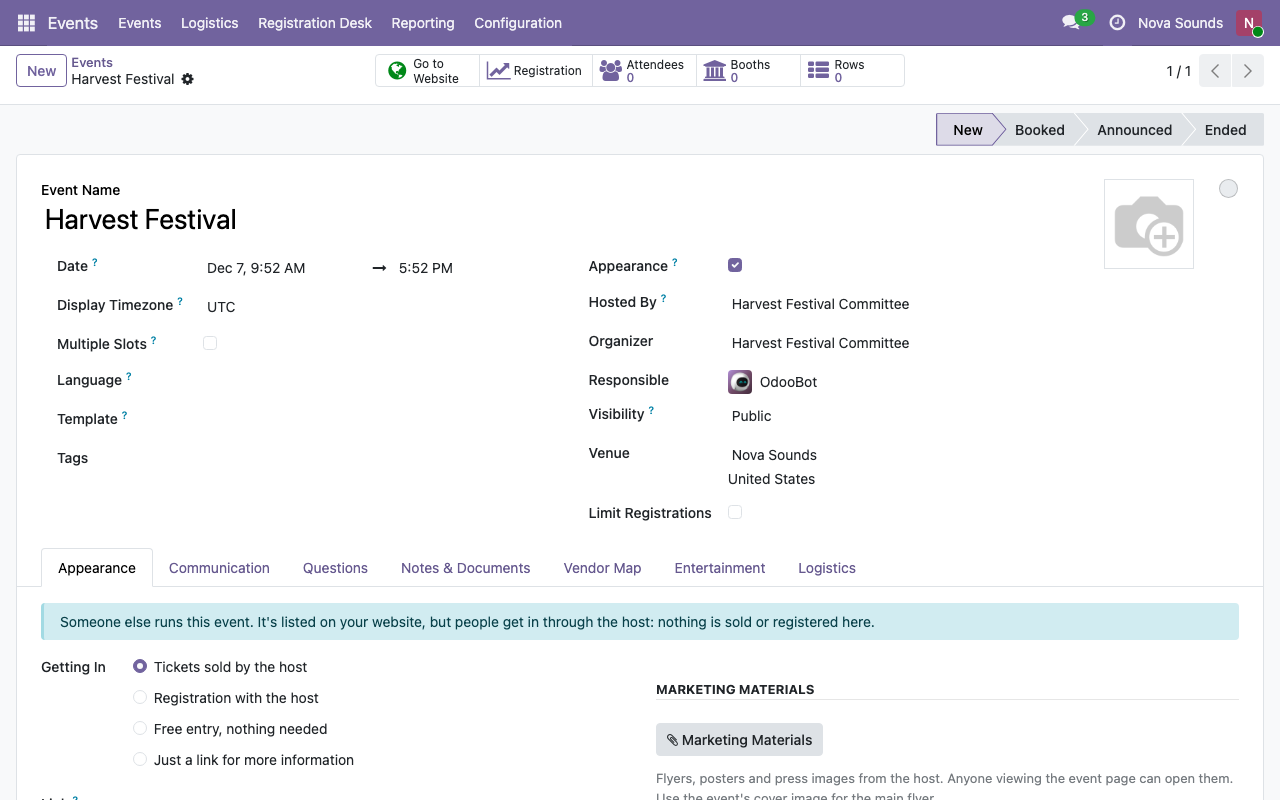
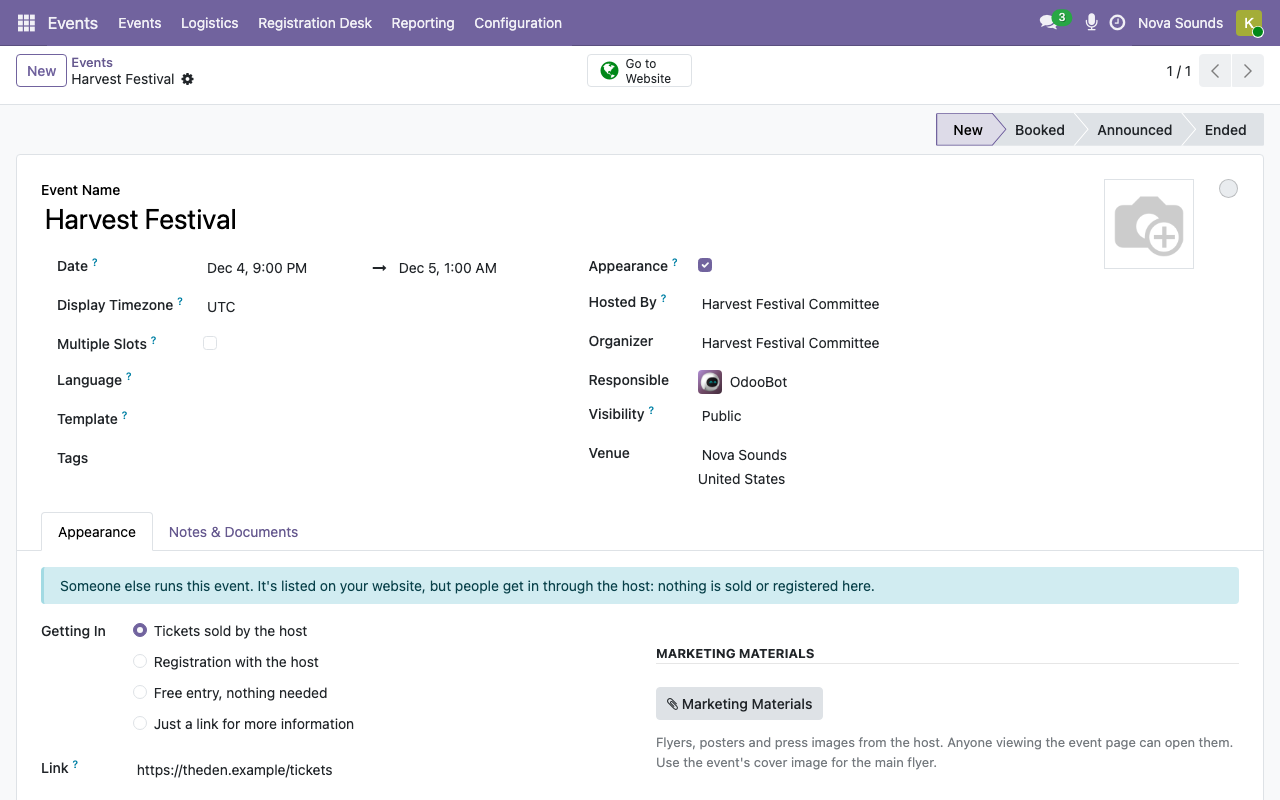
Appearances: show only the tabs and buttons an appearance needs
On an event someone else runs, the form now shows only the Appearance and
Notes & Documents tabs and the Go to Website button. Tabs for running an
event (Tickets, Communication, Questions, Entertainment, Logistics,
Volunteers, Vendor Map, and any a later module adds), the attendee and
sales buttons, the registration limit and the badge and ticket-instruction
fields are hidden.

Performers courses: the Appearances lesson explains this, with a new
screenshot. The course data was noupdate, so lesson changes never reached
an installed database; both course modules now follow the code, with a
migration lifting the flag.

diff --git a/website_event_appearance/models/event_event.py b/website_event_appearance/models/event_event.py
@@ -2,6 +2,15 @@
 from odoo import _, api, fields, models
 from odoo.exceptions import ValidationError
 
+# On an appearance's form, only these tabs stay: the appearance details and
+# your own notes. Every other tab (Communication, Questions, Entertainment,
+# Logistics, Volunteers, Vendor Map, ...) is about running an event, which the
+# host does; tabs added by modules installed later are hidden too.
+APPEARANCE_FORM_PAGES = {'appearance', 'event_notes'}
+# Fields about registrations and badges, which don't apply either.
+APPEARANCE_HIDDEN_FIELDS = ('seats_limited', 'seats_max', 'badge_format', 'badge_image',
+                            'ticket_instructions')
+
 ENTRY_LABELS = {
     'tickets': "Get tickets",
     'registration': "Register",
@@ -60,6 +69,42 @@ class EventEvent(models.Model):
             if url and not url.startswith(('https://', 'http://')):
                 raise ValidationError(_("The link for %(event)s should start with https://",
                                         event=event.name))
+
+    @api.model
+    def _get_view(self, view_id=None, view_type='form', **options):
+        arch, view = super()._get_view(view_id, view_type, **options)
+        if view_type == 'form' and arch.xpath("//field[@name='is_appearance']"):
+            self._appearance_hide_unused(arch)
+        return arch, view
+
+    @api.model
+    def _appearance_hide_unused(self, arch):
+        """Hide what only matters when we run the event ourselves, whatever
+        module added it: the tabs, the smart buttons (attendees, sales, ...)
+        and the registration and badge fields."""
+        def hide(node):
+            current = (node.get('invisible') or '').strip()
+            if current in ('1', 'True', 'true'):
+                return
+            node.set('invisible', f"({current}) or is_appearance"
+                     if current and current not in ('0', 'False', 'false') else 'is_appearance')
+
+        for page in arch.xpath("//sheet/notebook/page"):
+            if page.get('name') not in APPEARANCE_FORM_PAGES:
+                hide(page)
+        for button in arch.xpath("//div[@name='button_box']/*"):
+            # Keep "Go to Website": the public page is the point of an appearance.
+            if button.get('widget') != 'website_redirect_button':
+                hide(button)
+        for name in APPEARANCE_HIDDEN_FIELDS:
+            for node in arch.xpath(f"//field[@name='{name}'] | //label[@for='{name}']"):
+                parent = node.getparent()
+                # The "Limit Registrations" line and the ticket-instructions block
+                # are a label plus a wrapper: hide the wrapper too.
+                if node.tag == 'field' and parent.tag in ('div', 'group') and parent.get('name') != 'button_box' \
+                        and name in ('seats_limited', 'ticket_instructions'):
+                    hide(parent)
+                hide(node)
 
     @api.depends('is_appearance')
     def _compute_event_registrations_open(self):

diff --git a/website_event_appearance/tests/test_appearance.py b/website_event_appearance/tests/test_appearance.py
@@ -68,3 +68,21 @@ class TestAppearance(HttpCase):
         self.appearance.write({'appearance_entry': 'free', 'appearance_url': False})
         self.assertFalse(self.appearance.appearance_button_label)
         self.assertIn('Free entry', self.url_open(f'/event/{self.appearance.id}/register').text)
+
+    def test_form_shows_only_what_an_appearance_needs(self):
+        """Tabs, buttons and fields for running an event are hidden on an
+        appearance's form, including tabs from other modules."""
+        from lxml import etree
+        arch = etree.fromstring(self.env['event.event'].get_views([(False, 'form')])['views']['form']['arch'])
+        pages = {page.get('name'): page.get('invisible') or '' for page in arch.xpath('//sheet/notebook/page')}
+        self.assertEqual(pages['appearance'], 'not is_appearance')
+        self.assertNotIn('is_appearance', pages['event_notes'])
+        for name, invisible in pages.items():
+            if name not in ('appearance', 'event_notes'):
+                self.assertIn('is_appearance', invisible, f"tab {name} should be hidden on an appearance")
+        self.assertTrue(arch.xpath("//div[@name='button_box']/field[@widget='website_redirect_button']"))
+        for button in arch.xpath("//div[@name='button_box']/*[not(@widget='website_redirect_button')]"):
+            self.assertTrue(button.get('invisible') == '1' or 'is_appearance' in (button.get('invisible') or ''))
+        for name in ('seats_limited', 'ticket_instructions', 'badge_format'):
+            self.assertIn('is_appearance', arch.xpath(f"//field[@name='{name}']")[0].get('invisible'))
+        self.assertNotIn('is_appearance', arch.xpath("//field[@name='note']")[0].get('invisible') or '')

diff --git a/performers_elearning/tools/build_course_data.py b/performers_elearning/tools/build_course_data.py
@@ -208,6 +208,10 @@ PROMOTION = ('channel_promotion', "Getting Booked Again",
             p("On the " + path("Appearance") + " tab: the host, how people get in (tickets sold by the host, "
               "registration with the host, free entry, or just more information), the host's link and the "
               "button's label, and the host's flyer and materials to show on the page."),
+            p("Ticking <strong>Appearance</strong> hides everything that's only for running an event yourself: "
+              "the Tickets, Communication and Questions tabs, entertainment, logistics and the attendee "
+              "buttons. " + path("Notes & Documents") + " stays for your own notes, and "
+              "<strong>Go to Website</strong> shows the public page."),
             shot(M, 'appearance_form.png', "An event set up as an appearance", "an appearance at a festival."),
             callout('fa-bullhorn', "Promote It", "On a booked public gig, <strong>Promote It</strong> creates a "
                     "draft appearance from the gig: add the host's link and flyer, then publish it."),
@@ -355,7 +359,7 @@ def write(module, courses):
     target = os.path.join(ROOT, module, 'data', 'slide_channel_data.xml')
     with open(target, 'w') as f:
         f.write('<?xml version="1.0" encoding="utf-8" ?>\n<!-- Built by performers_elearning/tools/'
-                'build_course_data.py: edit there and rebuild. -->\n<odoo noupdate="1">\n\n' + body + '</odoo>\n')
+                'build_course_data.py: edit there and rebuild. -->\n<odoo noupdate="0">\n\n' + body + '</odoo>\n')
     print(target)
 
 

diff --git a/performers_elearning_events/migrations/19.0.1.1.0/pre-migrate.py b/performers_elearning_events/migrations/19.0.1.1.0/pre-migrate.py
@@ -1,0 +1,11 @@
+# -*- coding: utf-8 -*-
+
+
+def migrate(cr, version):
+    """The courses were first installed as noupdate data, which keeps every
+    later lesson change from reaching an installed database. They follow
+    the code now: lift the flag so this and future upgrades rewrite them."""
+    cr.execute("""
+        UPDATE ir_model_data SET noupdate = false
+         WHERE module = 'performers_elearning_events' AND noupdate
+    """)

diff --git a/performers_elearning/migrations/19.0.1.1.0/pre-migrate.py b/performers_elearning/migrations/19.0.1.1.0/pre-migrate.py
@@ -1,0 +1,11 @@
+# -*- coding: utf-8 -*-
+
+
+def migrate(cr, version):
+    """The courses were first installed as noupdate data, which keeps every
+    later lesson change from reaching an installed database. They follow
+    the code now: lift the flag so this and future upgrades rewrite them."""
+    cr.execute("""
+        UPDATE ir_model_data SET noupdate = false
+         WHERE module = 'performers_elearning' AND noupdate
+    """)

diff --git a/performers_elearning/__manifest__.py b/performers_elearning/__manifest__.py
@@ -1,7 +1,7 @@
 # -*- coding: utf-8 -*-
 {
     'name': 'eLearning: Performers Training',
-    'version': '19.0.1.0.1',
+    'version': '19.0.1.1.0',
     'category': 'Website/eLearning',
     'summary': "eLearning courses for the Performers Suite: bookings, gear and music, getting booked again",
     'description': """

diff --git a/performers_elearning_events/__manifest__.py b/performers_elearning_events/__manifest__.py
@@ -1,7 +1,7 @@
 # -*- coding: utf-8 -*-
 {
     'name': 'eLearning: Performer Events Training',
-    'version': '19.0.1.0.0',
+    'version': '19.0.1.1.0',
     'category': 'Website/eLearning',
     'summary': "eLearning course for Performer Events: paying performers and staff, and the door",
     'description': """

diff --git a/website_event_appearance/__manifest__.py b/website_event_appearance/__manifest__.py
@@ -1,7 +1,7 @@
 # -*- coding: utf-8 -*-
 {
     'name': 'Event Appearances',
-    'version': '19.0.1.0.1',
+    'version': '19.0.1.1.0',
     'category': 'Marketing/Events',
     'summary': "List events you're performing at, run by someone else: link to their tickets, show their flyer",
     'description': """

diff --git a/website_event_appearance/README.md b/website_event_appearance/README.md
@@ -23,8 +23,12 @@ alongside your own events, but nothing is sold or registered in Odoo.
 For an appearance, `event_registrations_open` is always false, so Odoo's
 own Register button, tickets and "Registrations Closed" notices don't
 show, and the registration routes (`/registration/new`,
-`/registration/confirm`) answer 404 even if posted directly. The Tickets
-tab is hidden on the form. Everything else about the event (dates, venue,
+`/registration/confirm`) answer 404 even if posted directly. On the form,
+only the Appearance and Notes & Documents tabs show: Tickets,
+Communication, Questions and any tab another module adds for running an
+event (entertainment, logistics, volunteers, ...) are hidden, as are the
+attendee and sales buttons (Go to Website stays), the registration limit and the badge and
+ticket-instruction fields. Everything else about the event (dates, venue,
 map, description, tags, website) works as usual.
 
 ## Built for
